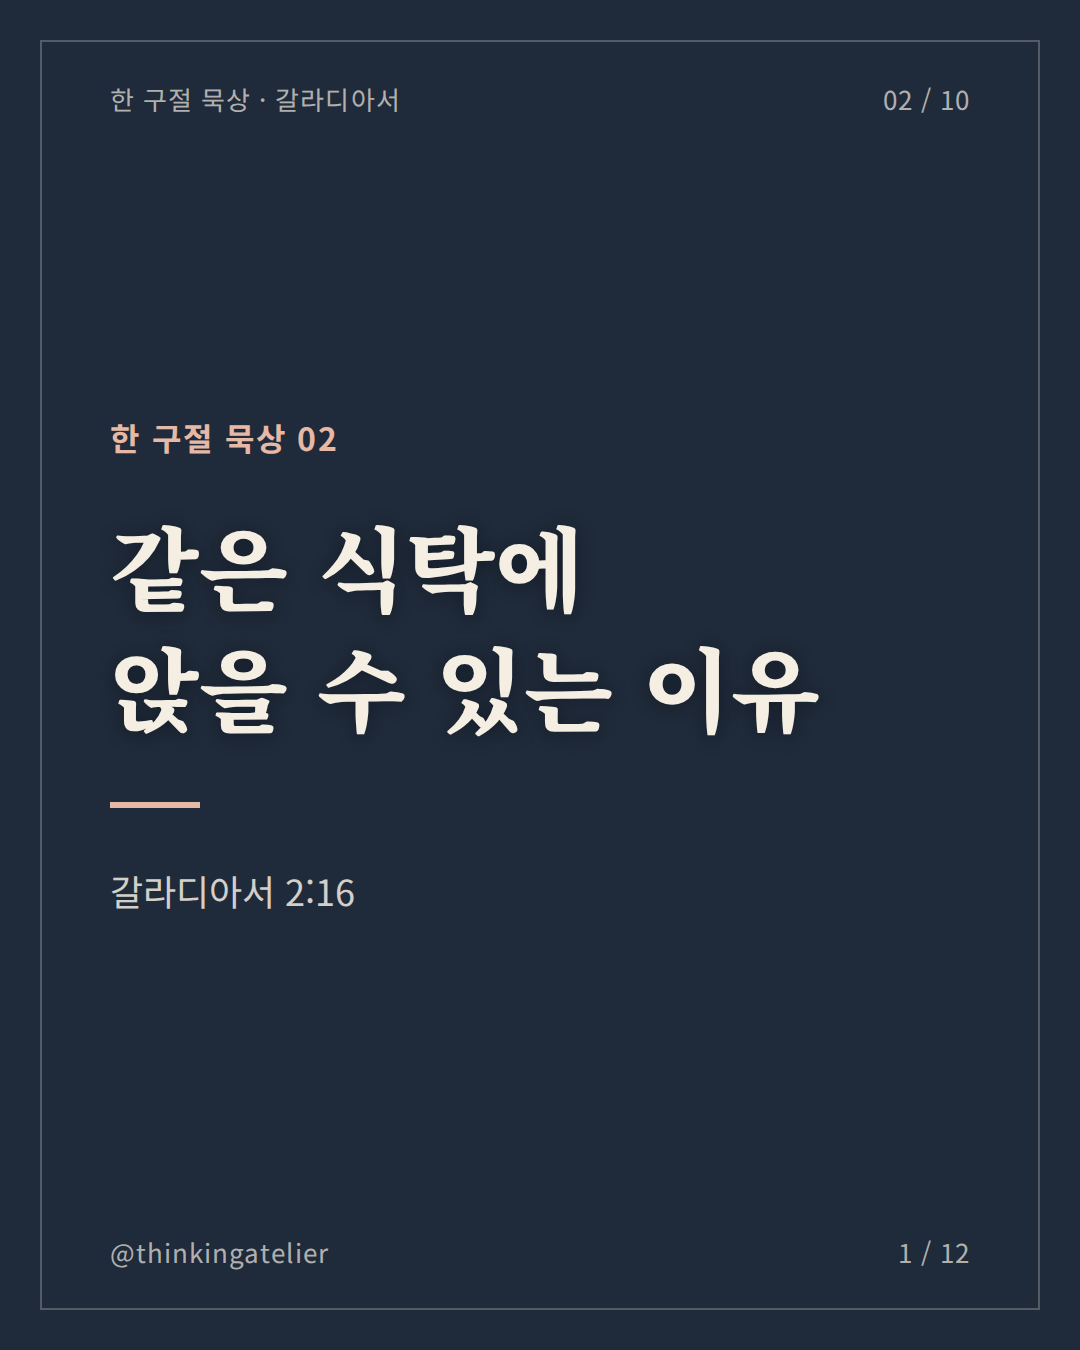
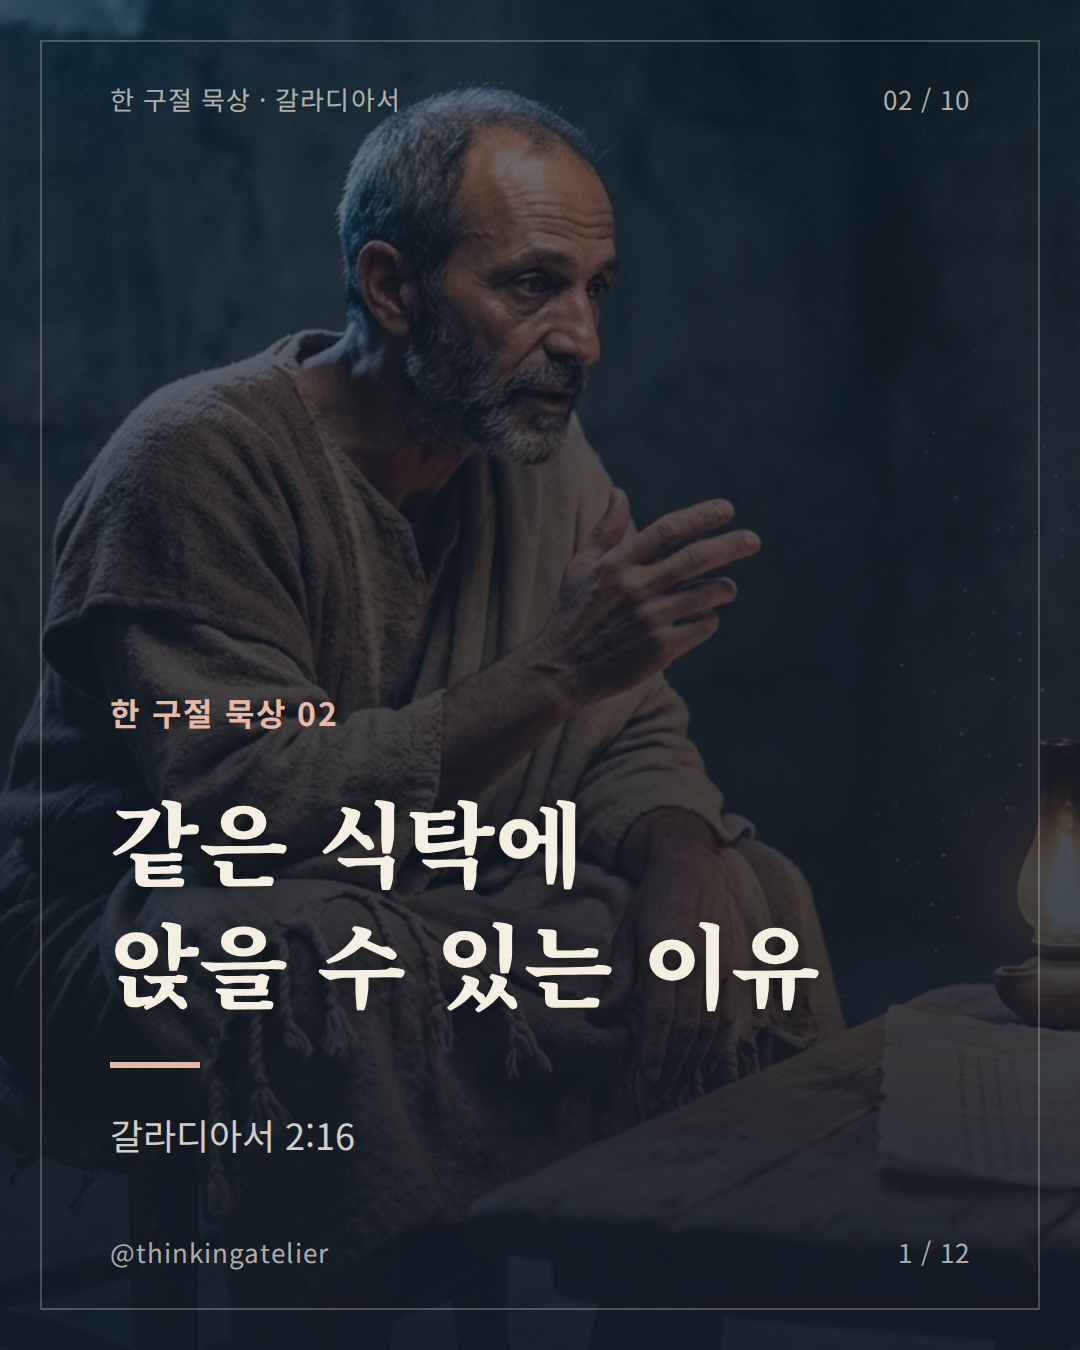
Use Paul cover background for Galatians episode 2
Claude-Session: https://claude.ai/code/session_01Md6U1FBrFwPi1aWGn1CBFq

diff --git a/series/galatians.md b/series/galatians.md
@@ -3,7 +3,7 @@
 | 편 | id | 구절 | 묵상 주제 | 상태 |
 |---|---|---|---|---|
 | 01 | gal-01 | 1:10 | 누구의 기쁨을 구하는가 | 카드 초안 · 표지 그림 |
-| 02 | gal-02 | 2:16 | 행위가 아니라 믿음으로 | 카드 초안 |
+| 02 | gal-02 | 2:16 | 행위가 아니라 믿음으로 | 카드 초안 · 표지 그림 |
 | 03 | gal-03 | 2:20 | 내 안에 그리스도께서 사신다 | |
 | 04 | gal-04 | 3:13 | 대신 받으신 저주 | |
 | 05 | gal-05 | 3:28 | 그리스도 안에서 하나 | |
@@ -12,6 +12,10 @@
 | 08 | gal-08 | 5:13 | 자유로 서로 종노릇하라 | |
 | 09 | gal-09 | 5:22–23 | 성령의 열매 | |
 | 10 | gal-10 | 6:14 | 십자가 외에 자랑할 것이 없다 | |
+
+## 표지 그림
+
+모든 편의 표지는 `carousel/images/paul-scribe.webp`(바울과 서기)를 음영과 함께 깐다. 편마다 다른 그림을 받으면 그 편만 바꾼다.
 
 ## 카드 구성 (12장)
 
